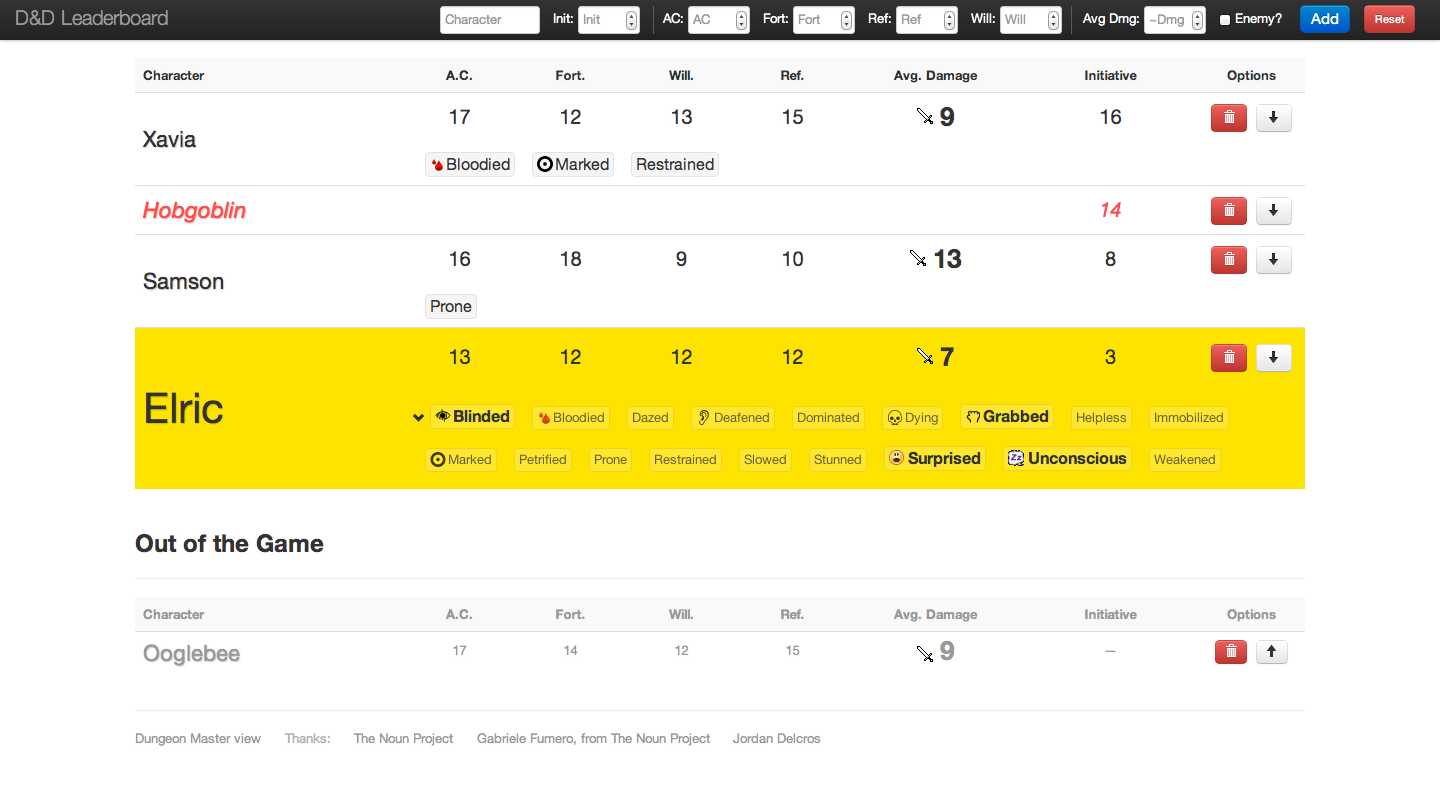
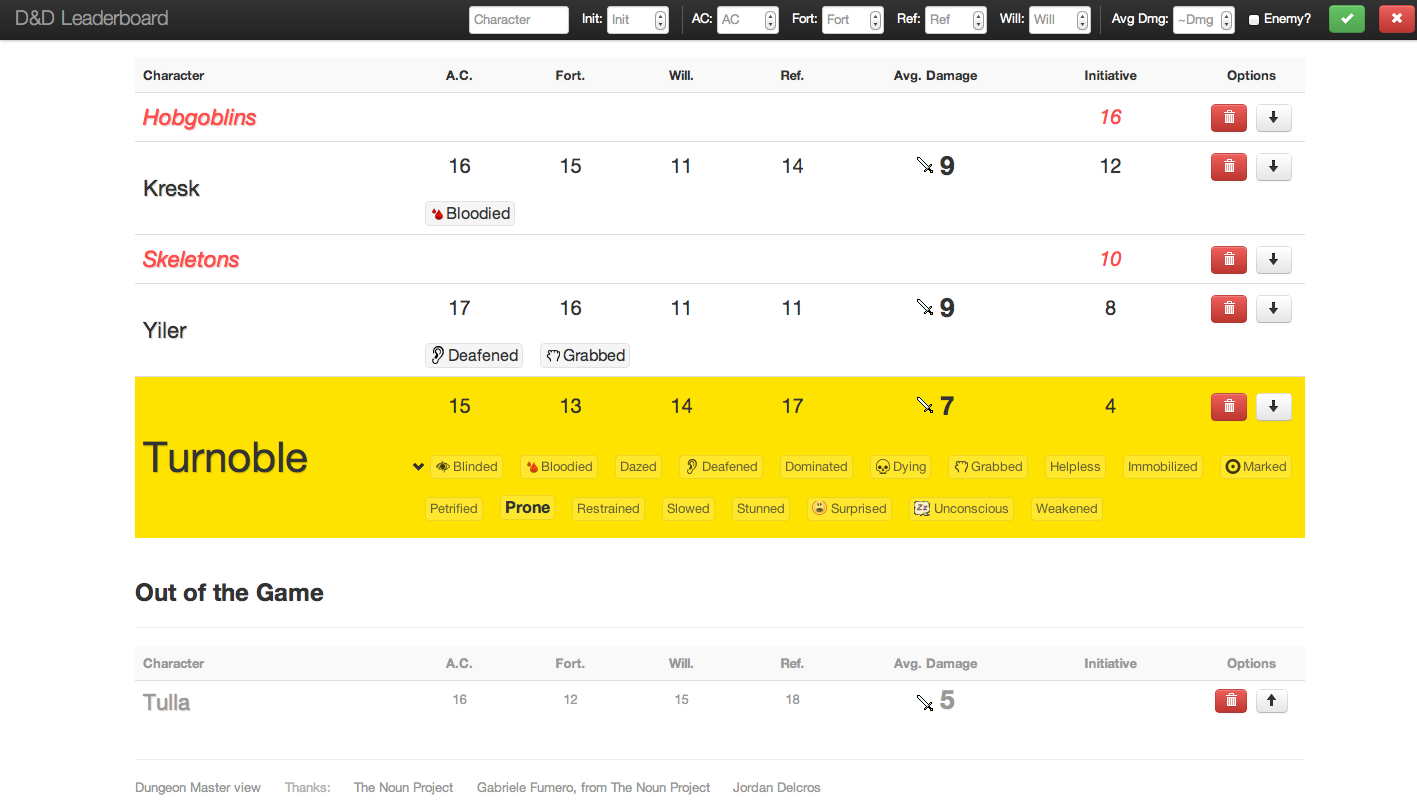
Sub-enemy name edit form not always shown
Updating screenshots.  Using custom cursor when editing current/max HP.
 Focusing current HP field when you click it to edit.  Styling
sub-enemy rows.  Fixing reset button in character form so it resets all
fields.

diff --git a/client/dnd.js b/client/dnd.js
@@ -182,12 +182,26 @@ Template.character_status_effects.events = {
 	}
 };
 
+var resetCharacterForm = function() {
+		$('#new-enemy').attr('checked', false);
+		$("#char-ac").val('');
+		$("#char-fort").val('');
+		$("#char-ref").val('');
+		$("#char-will").val('');
+		$("#char-dmg").val('');
+		$('#character-id').val('');
+		$('#enemy-hp').val('');
+		$('#enemy-max-hp').val('');
+		$('#new-initiative').val('');
+		$('#new-character').val('');
+		$('.navbar .control-group.error').removeClass('error');
+	};
+
 Template.navbar.events = {
 	'change #new-enemy': function() {
 		showEnemyHealthFieldsetIfNecessary();
 	},
-	'click #add-button': function(event) {
-		event.preventDefault();
+	'click #add-button': function() {
 		var id = $('#character-id').val();
 		var character = CharacterList.findOne({
 			_id: id
@@ -195,7 +209,7 @@ Template.navbar.events = {
 		var nameField = $("#new-character");
 		var name = nameField.val();
 		if (!fieldHasValue(nameField)) {
-			return;
+			return false;
 		}
 		var isEnemy = $('#new-enemy').is(':checked');
 		var initiativeVal = parseInt($("#new-initiative").val(), 10);
@@ -224,13 +238,13 @@ Template.navbar.events = {
 				damage: damage,
 				effects: []
 			};
-			console.debug("Inserting new character: " + JSON.stringify(charProps));
+			//console.debug("Inserting new character: " + JSON.stringify(charProps));
 			var newCharID = CharacterList.insert(charProps);
 			if (isEnemy) {
 				addNewSubEnemy(newCharID, charProps);
 			}
 		} else {
-			console.debug("Updating character #" + id);
+			//console.debug("Updating character #" + id);
 			CharacterList.update({
 				_id: id
 			}, {
@@ -248,20 +262,12 @@ Template.navbar.events = {
 				}
 			});
 		}
-		$('#reset-button').click();
+		resetCharacterForm();
+		return false;
 	},
-	'click #reset-button': function(event) {
-		event.preventDefault();
-		$('#new-enemy').attr('checked', false);
-		$("#char-ac").val('');
-		$("#char-fort").val('');
-		$("#char-ref").val('');
-		$("#char-will").val('');
-		$("#char-dmg").val('');
-		$('#character-id').val('');
-		$('#enemy-hp').val('');
-		$('#enemy-max-hp').val('');
-		$('.navbar .control-group.error').removeClass('error');
+	'click #reset-button': function() {
+		resetCharacterForm();
+		return false;
 	}
 };
 
@@ -331,24 +337,41 @@ Template.sub_enemy_row.events = {
 		}
 		return false;
 	},
-	'click a[href=#save]': function(event) {
-		var link = $(event.currentTarget);
-		var form = link.parent();
-		var nameInput = $('#sub-enemy-name', form);
-		var name = nameInput.val();
-		if ($.trim(name) == '') {
-			nameInput.addClass('error');
+	'click .sub-enemy-name': function(event) {
+		var span = $(event.currentTarget);
+		span.hide();
+		var form = span.next('.sub-enemy-name-form');
+		form.show();
+		var input = $('#sub-enemy-name', form);
+		var name = $.trim(span.text());
+		input.val(name);
+		input.focus();
+		var button = $('#sub-enemy-save', form);
+		var id = this._id;
+		var updateSubEnemyName = function() {
+			name = $.trim(input.val());
+			if (name == '') {
+				input.addClass('error');
+				return false;
+			}
+			input.removeClass('error');
+			SubCharacterList.update({
+				_id: id
+			}, {
+				$set: {
+					name: name
+				}
+			});
+			form.hide();
+			span.text(name).show();
 			return false;
-		}
-		nameInput.removeClass('error');
-		SubCharacterList.update({
-			_id: this._id
-		}, {
-			$set: {
-				name: name
+		};
+		button.click(updateSubEnemyName);
+		input.keypress(function(e) {
+			if (e.which == 13) { // Enter
+				return updateSubEnemyName();
 			}
 		});
-		return false;
 	},
 	'click a[href=#create-new]': function(event) {
 		var link = $(event.currentTarget);
@@ -383,6 +406,7 @@ Template.sub_enemy_row.events = {
 		var input = $('<input type="number" class="current-hp-edit">');
 		input.val(currentHP);
 		currentHPSpan.html(input);
+		input.focus();
 		var enemy = this;
 		var updateCurrentHP = function() {
 			var newHPRaw = input.val();
@@ -400,12 +424,6 @@ Template.sub_enemy_row.events = {
 			currentHPSpan.text(newHP);
 			currentAndMaxHPSpan.removeClass('editing');
 		};
-		/*input.change(function() {
-			var idInEditForm = $('#character-id').val();
-			if (idInEditForm == enemy._id) {
-				$('#enemy-hp').val(input.val());
-			}
-		});*/
 		input.keypress(function(e) {
 		    if (e.which == 13) { // Enter
 				updateCurrentHP();

diff --git a/client/dnd.css b/client/dnd.css
@@ -3,6 +3,9 @@
 .active.enemy-false .char-name {
 	line-height: 100px;
 }
+.active.enemy-breakdown td {
+	border-top-color: #DBC300;
+}
 body.dm {
 }
 	body.dm div.dm,
@@ -94,8 +97,7 @@ td.char-damage {
 	font-weight: bold;
 }
 .current-and-max-hp {
-	cursor: pointer;
-	font-size: 120%;
+	cursor: url('/icon-pencil.png'), pointer;
 }
 .defense,
 .defense-label {
@@ -264,6 +266,9 @@ input[type="number"] {
 	cursor: url('/icon-cross.png'), pointer;
 	opacity: 1;
 }
+.sub-enemy-name-form {
+	display: none;
+}
 td.dm,
 th.dm {
 	display: none;
@@ -285,6 +290,19 @@ th.dm {
 .table .active.status-effects td .collapse-expand,
 .table .status-effects td .control-group.checked {
 	display: inline-block;
+}
+.table tr.active.enemy-true.enemy-breakdown td {
+	background-color: #FCE84A;
+	font-size: 120%;
+}
+.table tr.enemy-true.enemy-breakdown td {
+	background-color: #f9f9f9;
+}
+.table .enemy-true.enemy-breakdown .sub-enemy-details {
+	text-align: left;
+}
+.table .enemy-true.enemy-breakdown .sub-enemy-name {
+	cursor: url('/icon-pencil.png'), pointer;
 }
 .table label {
 	display: inline;

diff --git a/client/dnd.html b/client/dnd.html
@@ -307,8 +307,11 @@
 				<span class="max-hp">{{maxHP}}</span>
 			</span>
 		</td>
-		<td class="dm" colspan="6">
-			<form class="dm form-inline pull-left">
+		<td class="dm sub-enemy-details" colspan="6">
+			<span class="sub-enemy-name">
+				{{name}}
+			</span>
+			<form class="dm form-inline pull-left sub-enemy-name-form">
 				<input type="text" class="input-medium" id="sub-enemy-name" placeholder="Name" value="{{name}}">
 				<a href="#save" class="btn btn-success" id="sub-enemy-save"><i class="icon-white icon-ok"></i></a>
 			</form>
